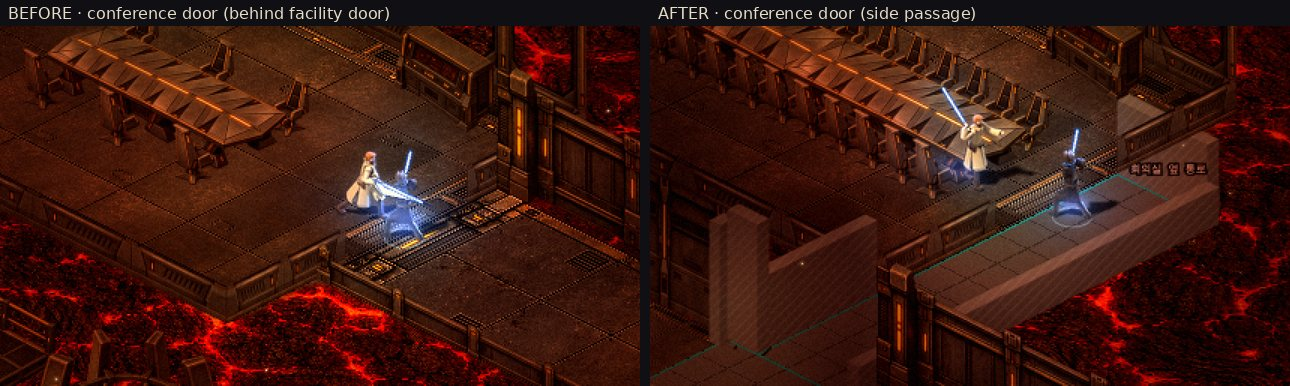
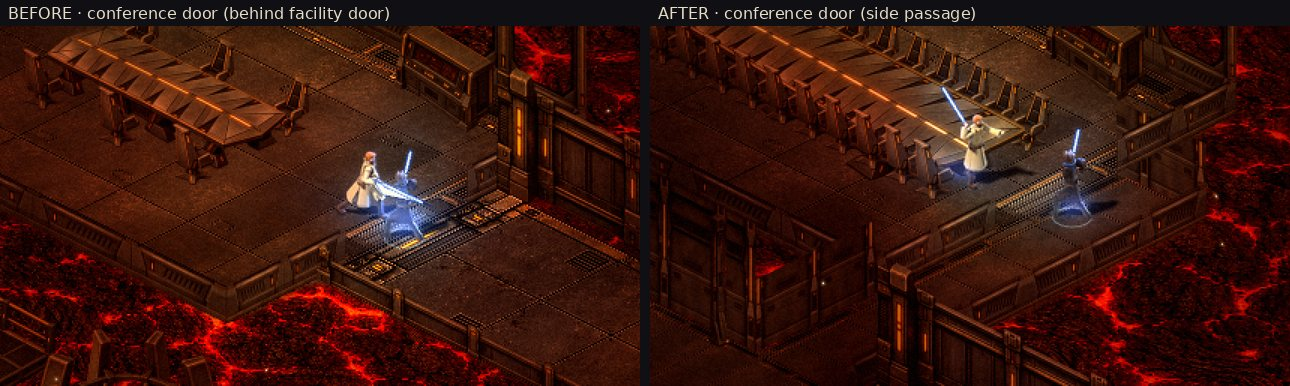
Mustafar film pass 1: the 13 delivered pictures integrated; low furniture stays solid
The control room's long table and door pillars, the corridor's slanted frames and the junction
by the facility door, the side passage's floor and walls, the conference room's 12 m table (the
two delivered tables give way to it) and the landing pad's lamps: delivered at the requested sizes,
used as is (originals in tools/assets/mustafar/src/film_pass1/, notes in delivered/). No blockout
left on the route.

Renderer: a prop covering Anakin is drawn see-through on Mustafar; the 12 m table vanished
whenever he stood behind it. Furniture whose top is at most 1 m (the manifest's occlusion height)
stays solid: it hides only his feet.

Claude-Session: https://claude.ai/code/session_01EpDwvf2JJtz71J1RbfaVeo

diff --git a/src/gfx/renderer.js b/src/gfx/renderer.js
@@ -601,7 +601,10 @@ export class Renderer {
     const ctx = this.ctx;
     const r = pr.rect;
     pr.coverAlpha = null;
-    if (pf && r[3] > 30 && pp.x + 8 > r[0] && pp.x - 8 < r[0] + r[2] && pp.y > r[1] + 8 && pp.y - pfH < r[1] + r[3] && this.coversPlayer(pr, pp, pfH)) {
+    // (low furniture — a table, its top ≤ 1 m: the manifest's occlusion height — stays solid: it hides only his feet,
+    // and a 12 m table gone see-through whenever he stood behind it read as no table at all)
+    const low = (pr.layers?.meta?.occlusion?.height ?? Infinity) <= 1.0;
+    if (pf && !low && r[3] > 30 && pp.x + 8 > r[0] && pp.x - 8 < r[0] + r[2] && pp.y > r[1] + 8 && pp.y - pfH < r[1] + r[3] && this.coversPlayer(pr, pp, pfH)) {
       if (pr.sheet && this.game.world.grade === 'mustafar') {
         pr.coverAlpha = COVER_ALPHA;
         ctx.globalAlpha = COVER_ALPHA;

diff --git a/docs/asset_requests/delivered/mustafar_film_pass1_notes.md b/docs/asset_requests/delivered/mustafar_film_pass1_notes.md
@@ -1,0 +1,106 @@
+# Mustafar film map pass 1 — 13 assets
+
+The supplied request ZIP was unpacked and all seven film frames, eight match images and six guides were visually inspected. Eight assets were newly rendered with the built-in image-generation tool; five flat wall assets reuse exact source pixels by cropping/repeating the supplied wall images. No existing uploaded file was overwritten.
+
+## Output and anchors
+
+| File | Exact dimensions | Format | Ground anchor |
+| --- | --- | --- | --- |
+| ctl_long_table.png | 392 × 264 | RGBA | (196,155) |
+| ctl_door_pillar.png | 104 × 136 | RGBA | (50,97) |
+| corr_frame_far.png | 72 × 216 | RGBA | (33,186) |
+| corr_frame_near.png | 72 × 96 | RGBA | (33,69) |
+| corr_junction_floor.png | 256 × 256 | RGB opaque | — |
+| corr_junction_pier.png | 64 × 224 | RGBA | — |
+| corr_junction_wall_low.png | 256 × 64 | RGBA | — |
+| corr_side_floor.png | 192 × 768 | RGB opaque | — |
+| corr_side_wall_end.png | 192 × 128 | RGBA | — |
+| corr_side_wall_low.png | 768 × 64 | RGBA | — |
+| corr_side_wall_corner.png | 256 × 128 | RGBA | — |
+| conf_table_long.png | 592 × 352 | RGBA | (296,195) |
+| guide_light.png | 64 × 56 | RGBA | (32,29) |
+
+Preserve full canvases when importing. Flat textures use the requested 64px/metre scale and stand upright without an additional isometric render. Sprite geometry was fitted to the guide envelopes, with mechanical correction of table top planes. Fine silhouettes, feet, bevels and cut-surface angles remain illustrative, rather than exact CAD reconstructions. Validate these interim assets against the assembled map before final art review. The small landing-pad lamp occupies approximately x16–48,y17–36 within its larger64×56canvas; do not auto-trim and rescale it to fill the cell.
+
+The control table has a solid trapezoid body, dark projection surface and no holograms. The council table is a single longer piece with repeated top panels and feet, separate from chairs. Both corridor ribs and the door pillar are standalone pieces; their near/cut variants expose internal metal framing. No cast shadows were generated for these pieces. The guide-light lens is passive grey-blue glass, not a blue emitter.
+
+## Film evidence versus map design
+
+- film_12920.jpg directly shows the central control-room table's solid, sloping block body. Its upper projection surface was reconstructed from that view and the request; holograms and blue light were omitted.
+- film_12911.jpg and film_12915.jpg show the heavy doorway ribs, leaning outlines and stepped/sawtooth profiles. The low cut heights are game visibility adaptations specified by the request.
+- film_12887.jpg and film_12911.jpg show repeated corridor frames and lamps near their bases. The standalone sprite construction follows those shapes, adapted to the supplied narrow boxes.
+- film_13142.jpg and film_13148.jpg show the long council table; match/conf_table.png controls exact panel/foot design vocabulary. The additional plates and feet are an extension of that game asset, not a claim that the film shows the same exact count.
+- landing_clip_05s.jpg shows floor lamps in the landing pad. The supplied floor_bay_A.png controls their metal color; the lens is unlit because the game supplies illumination.
+- The side passage is explicitly not shown in the film. Its floor and walls continue supplied corridor materials and implement the requested map connection.
+
+All film images used here were provided inside this request. No additional video playback or 3D-viewer rotation was performed in this batch.
+
+## Exact wall reuse
+
+Source images are in the uploaded ZIP's match/ directory. Coordinates below are pixel crops; no scaling was applied to the wall textures.
+
+| Output | Source and operation |
+| --- | --- |
+| corr_junction_pier.png | ps_wall_back.png: crop64×224 at(320,0), retaining the rightmost upright beside the opening |
+| corr_junction_wall_low.png | ps_wall_front_low.png: crop256×64 at(64,0) |
+| corr_side_wall_end.png | ps_wall_back.png: crop192×128 at(192,96), low2m section |
+| corr_side_wall_low.png | ps_wall_front_low.png repeated twice horizontally,384+384=768px |
+| corr_side_wall_corner.png | ps_wall_back.png: crop256×128 at(128,96), low2m section |
+
+The crops fill their prescribed rectangular wall canvases; therefore an alpha channel is present even where the wall fills most or all pixels. This is not a painted background. Doorway openings should be formed by map placement around these wall pieces, not by scaling or painting transparency into their centers.
+
+## Generation prompts
+
+Shared instructions:
+
+Use case: stylized-concept. Production sprite for the existing Mustafar duel game. Use supplied match asset for EXACT same rendered style/materials: dark worn charcoal-grey metal, restrained rust/grime, dull brass accents, tiny amber instruments when specified. Soft even illumination from upperleft for sprites; low surfacecontrast socharactersandblue lightsabersread. Nocharacters,text,logos,watermark,blue/red glow,fire,lava,background,baseplate,castshadow. Transparent means realalpha, never paintedcheckerboard. Guides are exactcanvases: cyanfootprint,orangetop,redgroundanchor. RemoveALLguide/gridlines/cross. Isometric=orthographic2:1dimetric horizontalaxes slope+1/2 and-1/2,verticalsvertical,no perspective. Don't copy cinematicglows/characters from filmrefs.
+
+### ctl_long_table.png
+
+392x264 RGBA. Image1 placementguide,image2 filmforegroundcentralholotable,image3 materialonly (NOTlegs/design). Longcentral control-roomholo-table7mx2mx1m. Solidheavyblock withslopedtrapezoidsides, NO LEGS, wideflatdarkglass projectionsurfaceacrossfulltop withsmallunlitprojectoraperturesandtinyamberinstrumentsalongrim. ProjectorsOFF,nohologramsorblue. Longaxisdownright. Topplaneapprox(16,56),(96,16),(376,156),(296,196),bottom49pxbelow tocyan(16,105),(96,65),(376,205),(296,245),groundanchor196155. Fillguidebox,notcentered miniature. Cornerclippedslightly, deeppanelrecessesonsolidangledbody. Nochair.
+
+Reference roles/paths: ctl_long_table_guide.png, ref/film_12920.jpg, match/conf_table.png.
+
+### ctl_door_pillar.png
+
+104x136 RGBA. One heavy leaning/slanted doorjambpillar, thickribwithsawtooth steppededgesasfilmrefs2/3 besidecontrolroomcorridordoor.0.8x0.9mfootprint,cutat1.3m; exposedcuttop darkmetal crosssectionwithinnerframing, identicalcutmaterialtoimage4lowwall. Footprintcyan diamond approx(16,96),(52,80),(84,96),(48,114), orangeCUTTOPwithin(16,33),(52,16),(84,33),(48,50). Anchor50,97. Gentleleaninwardwithinbox, broadheavymetalbase, boldangularsawtoothprofileontheinneredge, charcoalgreyduraniumsubduedbrassverticalaccent, nounder-floorbaseplate,nolamp. Fullguideheight,removeguide.
+
+Reference roles/paths: ctl_door_pillar_guide.png, ref/film_12911.jpg, ref/film_12915.jpg, match/ctl_wall_entry_low.png.
+
+### corr_frame_far.png
+
+72x216 RGBA. SINGLEcorridorfarwall structuralrib3.3mtall,0.35mwide,0.5mstandsoutfromwall. Heavyverticalmetalribwithbroadflaredbase,gentlyleansINWARDtowardcorridorasit rises, asfilmrefs2/3 repeatedribs, NOT completearchway, nopartofwallattached. OneSMALLwarm-whitelamp insetatfoot, pale lensnosurroundingglow (gameadds light). Greywallmaterial image4. Guidefootprintwithinx16..50,y178..194,anchor33,186,topwithin x16..50,y16..33. Tallthincolumn fillsguideheight; leaningprofile mustfitthisenvelope. Verticalflatouterback,taperedinwardfacingedge,mechanicalribseams,lightdullbrasstrim. Noextracablesor largeprojections,nobigpedestal.
+
+Reference roles/paths: corr_frame_far_guide.png, ref/film_12887.jpg, ref/film_12911.jpg, match/ps_wall_back.png.
+
+### corr_frame_near.png
+
+72x96 RGBA. Nearwall versionofsamefarwallcorridorstructuralrib fromfilmrefs,but ONLY its0.9mtallbroadbase. Cutcleanlyacrosstop; exposedhorizontalmetalcutcrosssection,darkinnerframing,matchinglowwallimage4.0.35mwide,0.5mstandsout, baseleans/tapersinward. Footprintwithin x16..50,y61..77; redanchor33,69; orangeCUTTOPwithin x16..50,y16..32. SINGLEbase notcompletewall, notarchway. Smallpale warm-whitefootlamplensunlit/no spill, samefarframebaseasfilm. No floor/shadow.
+
+Reference roles/paths: corr_frame_near_guide.png, ref/film_12887.jpg, ref/film_12911.jpg, match/ps_wall_front_low.png.
+
+### conf_table_long.png
+
+592x352 RGBA. EXACTsamecouncilconferencetableDESIGNasimage2, justlengthenedto12m,2mwide,top0.8m. Onecontinuouslongpiece, NOTtwotables. Facetedmetaltriangulartrapezoidtopplates,repeatingcentralmodularpanels, thinamberlitstripdownthecenterline,dullbrassedgerim,sameoutwardslopedangularfeet/bracedpedestalsasimage2,repeatedalonglength. Nochair, nohologram. Longaxisdownright. Matchguideorange topquad(16,56),(96,16),(576,256),(496,296), cyanbottom40pxbelow(16,96),(96,56),(576,296),(496,336). Anchor296,195. CutcornersatTWOENDSONLY;interiorpaneljoinsstraight,nocutoutsalongedges. Sparse4-5slopedfeet tosupportfull12mlength.Noshadow.Castlightfromamberstripminimal.
+
+Reference roles/paths: conf_table_long_guide.png, match/conf_table.png, ref/film_13142.jpg, ref/film_13148.jpg.
+
+### guide_light.png
+
+64x56 RGBA. TINYflushinsetlandingpaddecklamp,0.4x0.4m,0.1mtall. One squaregrey metalhousing andsimplefrostedglasslens, unlitpalegrey-blueglass, NO GLOW/NOEMISSION/NO castsadow. Image3 exactdeckgrey. Muststayguideactualsmallsize, notfillcanvas! Diamondfootprint(16,29),(32,21),(48,29),(32,37),top4pxabove(16,25),(32,17),(48,25),(32,33). Anchor32,29. Fourthinbeveledmetalrimedges, tinyfasteners, cleancrispcompactobject.Isometric2:1. Transparentrest of64x56canvas, nobigpedestal,nolampstand,noaddedfloor.
+
+Reference roles/paths: guide_light_guide.png, ref/landing_clip_05s.jpg, match/floor_bay_A.png.
+
+### corr_junction_floor.png
+
+256x256 OPAQUE FLAT architecturalfloor. Exactsameplates,scratches,grime,seams andcolorsasimage1corridorfloor.4mx4msquare seenSTRAIGHTDOWN,64pxperm,noisometricperspective,nolightdirection,noshadows,nomodelslabthickness. Image topnorth. Flushsimplefloorpanelgridnotabigornamentaldoor. AlongRIGHT(+x)edgeanarrowgrey/brassTHRESHOLDSTRIPtojoinfacilitydoor. Floorfillsentirecanvas edge toedge,noalpha,borderoutsideimage,nopadding. Maintainphysicalplatepatternscaleof64pxperm,subduedcontrast,nowrittenmarkings.
+
+Reference roles/paths: match/ps_floor.png.
+
+### corr_side_floor.png
+
+192x768 OPAQUE FLAT architecturalfloor. Shortsidepassage3mwide12mlongalongIMAGEHEIGHT. Exactsamewornmetalplates,grime,seams/colorsasimage1existingcorridorfloor. SeenSTRAIGHTOVERHEAD,noisometricangle,nolightdirection,noshadows, no3Dslabedge. 64pixels=1m: repeat sensibleplatemoduleseveryroughly64to128pixelsalong12mlength ratherthanstretchingoneplate. Straightlongsideedges, narrowunderstatededgevents/trimoptionalmatchingimage1. ImageTOPnorth. Floorfillswhole192x768canvas,nowallsorobjectsorlightsorletters,nopadding.
+
+Reference roles/paths: match/ps_floor.png.
+
+

diff --git a/docs/MUSTAFAR_REBUILD.md b/docs/MUSTAFAR_REBUILD.md
@@ -287,3 +287,9 @@
 근접 컷 4%만 예외), WebGL 없는 실제 Chromium에서 시작·요청 누락 없음(407개). 이 플레이로 찾아 고친 것: 회의실 시작 위치가 의자 칸의
 경계에 걸려 아나킨이 움직이지 못함, 밀치기 뒤 추격 장면에서 한 명이 화면 밖(12%). 공개 아티팩트 v104(`1792052446-8c33`).
 요청 그림의 배치·`replacedBy`(커밋 2be3bc7)는 그림이 올 때까지 화면에 변화가 없어 이 배포에 포함하지 않았다.
+
+**받은 그림 13장 통합** (`docs/asset_requests/delivered/mustafar_film_pass1_notes.md`, 원본 `tools/assets/mustafar/src/film_pass1/`):
+요청 크기 그대로·실제 투명(바닥 2장은 불투명, 벽 5장은 기존 통로 벽을 자른 것 — 노트에 기록) → 매니페스트 `delivered`, 블록아웃 상자
+없어짐(배지 사라짐), 회의실의 탁자 두 장은 12 m 한 장으로(`replacedBy`). 화면에서 고친 것: 무스타파 렌더러가 몸을 가리는 소품을 반투명으로
+그리는데, 12 m 탁자는 아나킨이 뒤에 설 때마다 통째로 사라져 보였다 → 상판 1 m 이하 가구(매니페스트 `occlusion.height`)는 반투명으로 바꾸지
+않는다(발만 가림). 화면: `docs/images/film_pass1/`(이후 = 그림이 들어간 상태, `art_*.jpg`).
